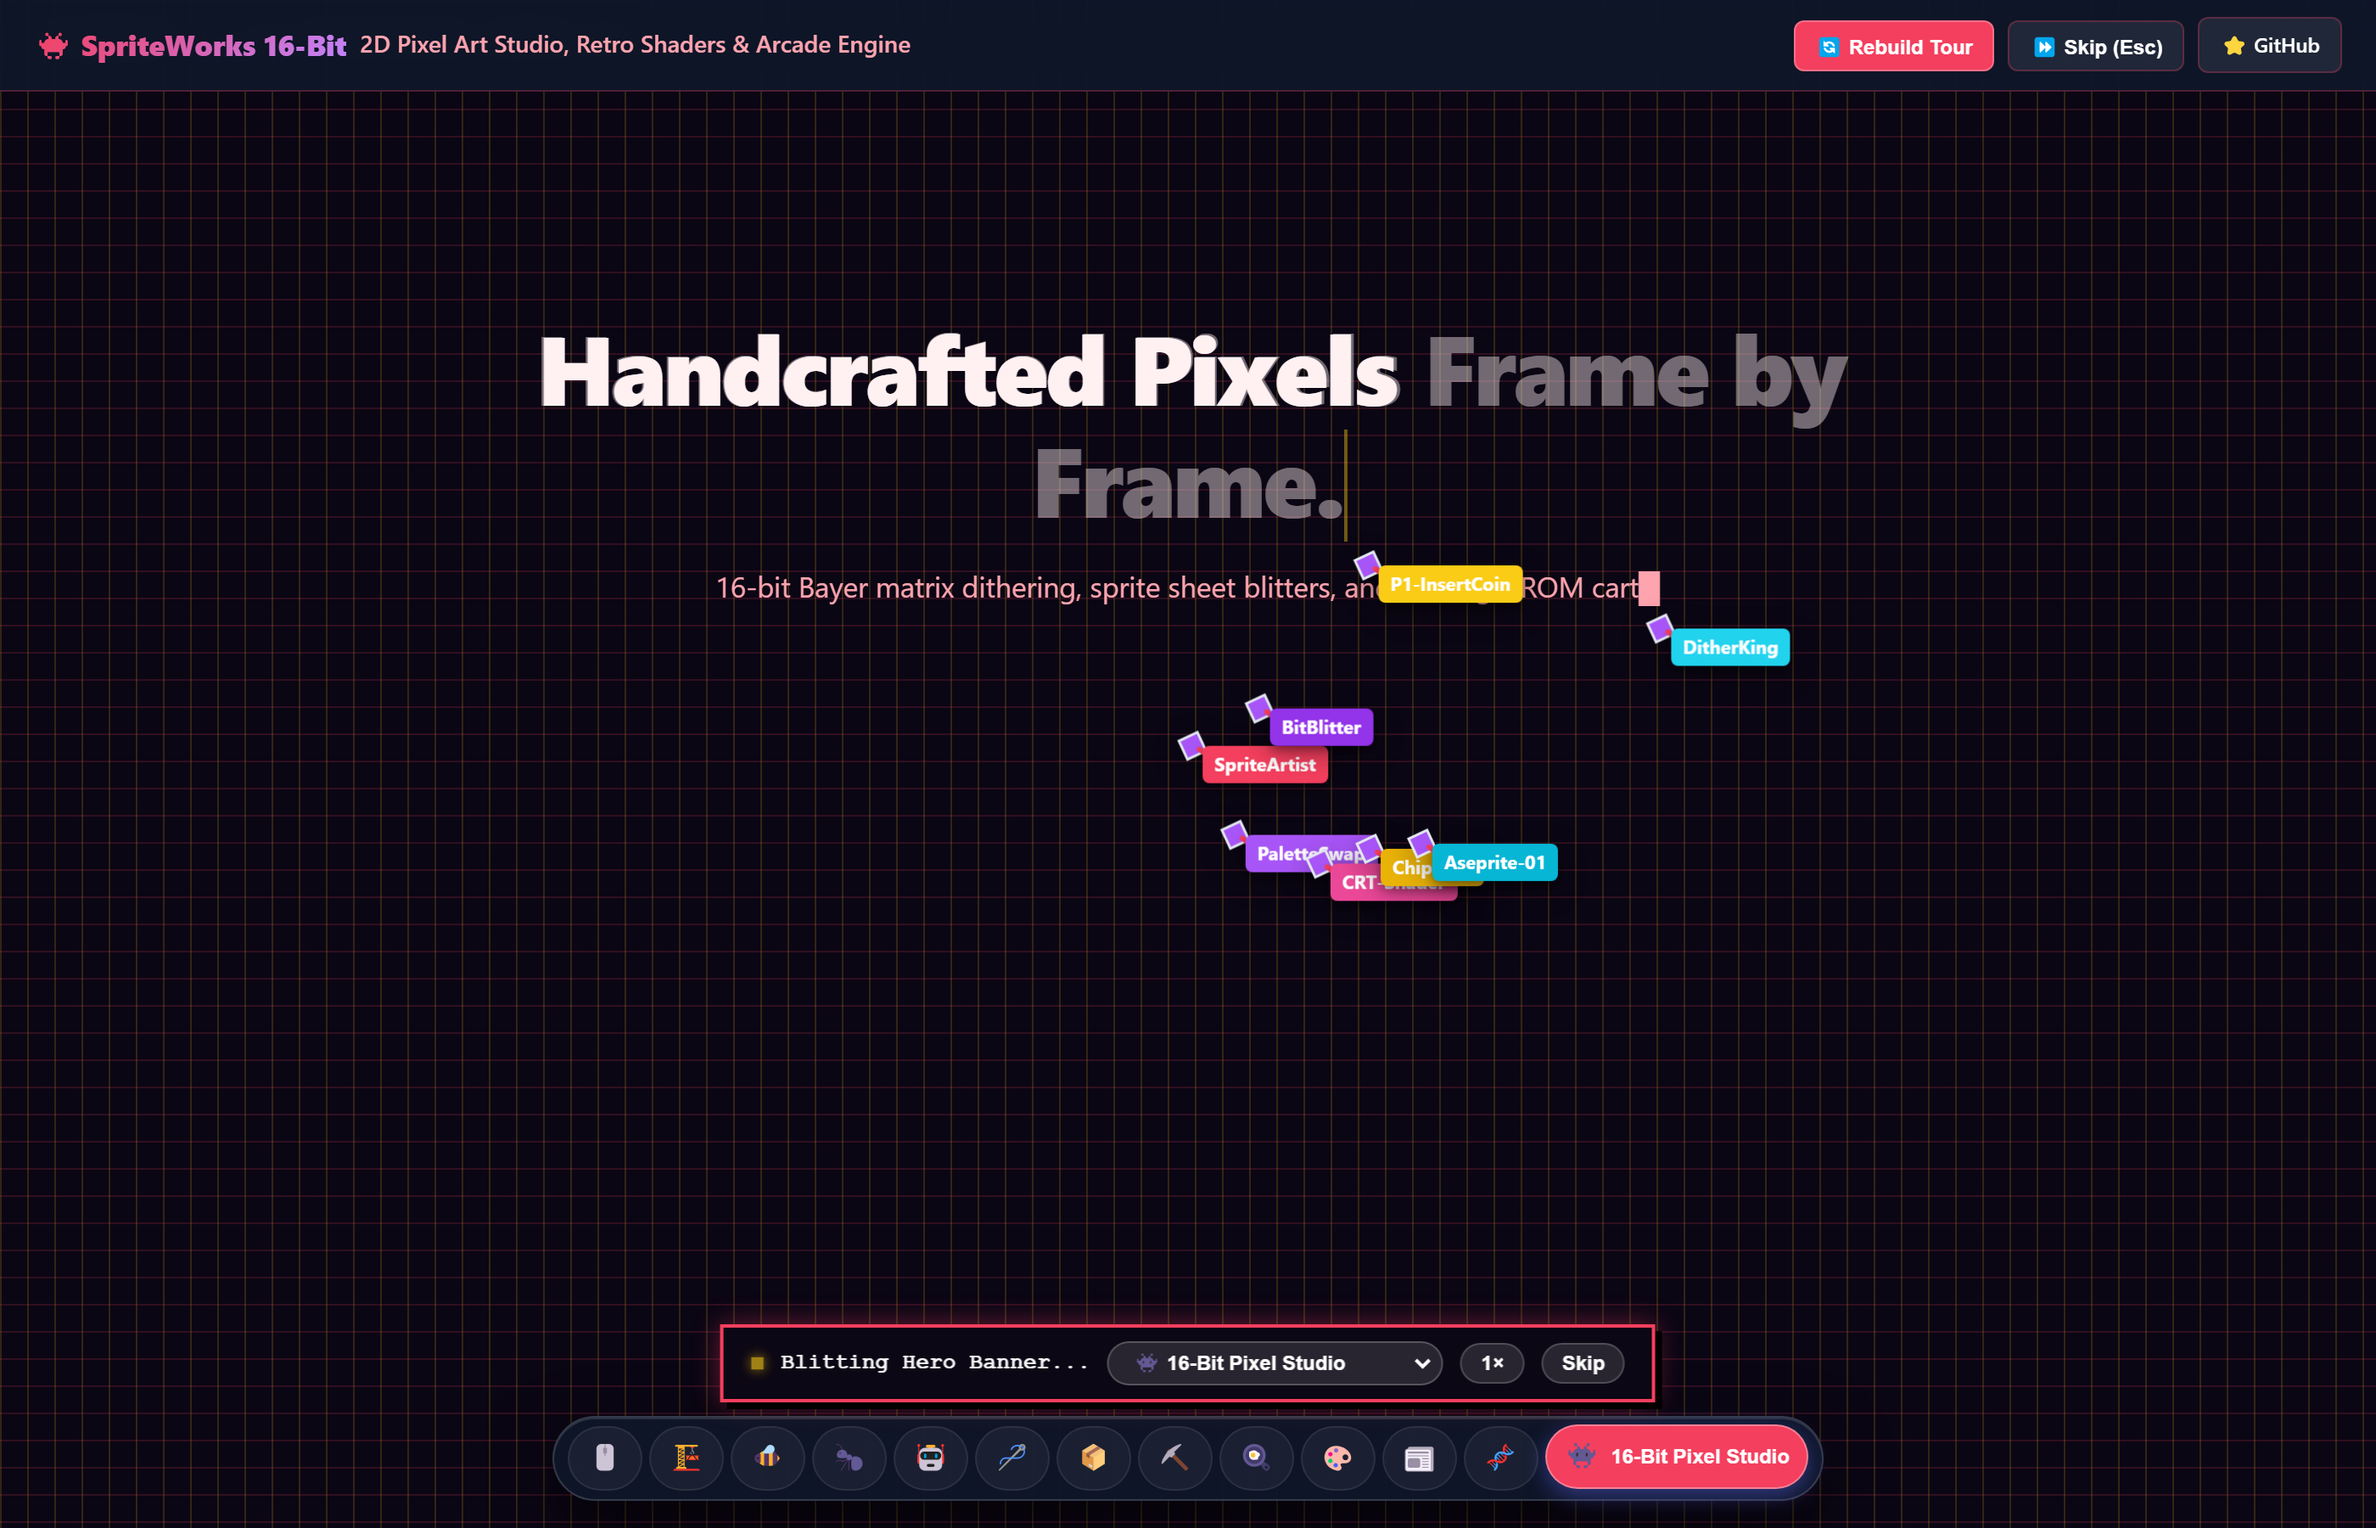
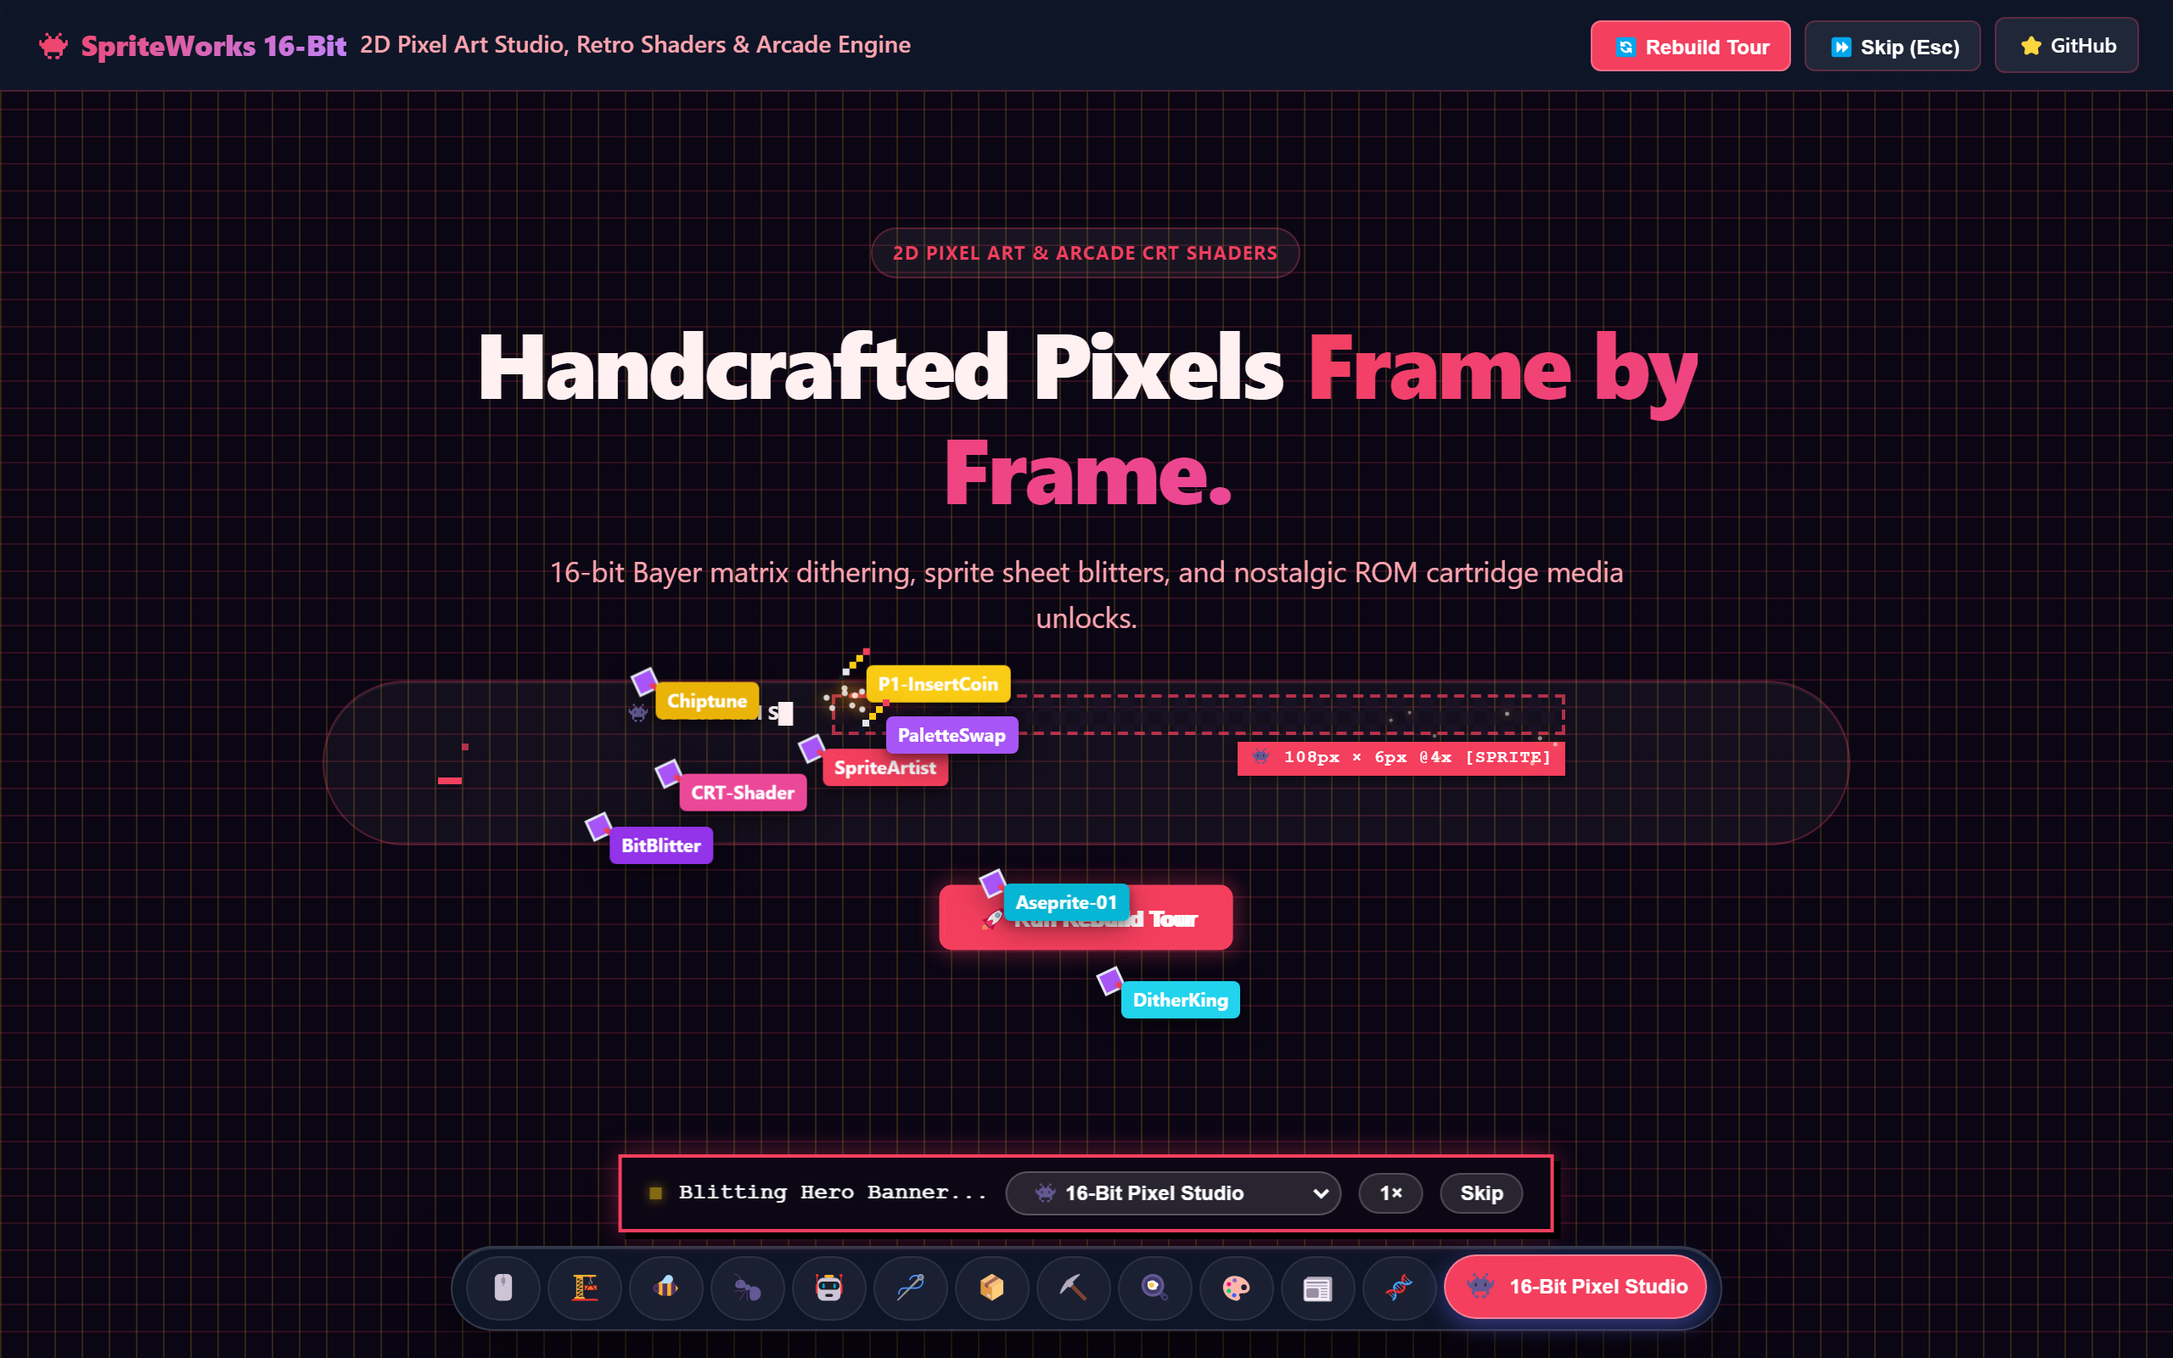
fix: define missing dragBoxScience and dragBoxPixel to resolve tour halt

Changed region(s): [[0.0, 0.0, 1.0, 1.0]]

diff --git a/assets/swarm.js b/assets/swarm.js
@@ -1287,7 +1287,65 @@
     a.setTool("");
   }
 
-  // 1.11 Default: Precision Wireframe Drag
+  // 1.11 Science: Expanding Molecular Double-Helix Lattice
+  async function dragBoxScience(r, a, t) {
+    const ghost = el("div", "swarm-ghost is-science-lattice", r.layer);
+    ghost.style.cssText = `left:${t.x}px;top:${t.y}px;width:0;height:0;--c:#10b981;`;
+    const grid = el("div", "swarm-science-grid", ghost);
+    const rungCount = Math.max(2, Math.min(6, Math.floor(t.w / 60)));
+    for (let i = 0; i < rungCount; i++) {
+      const rung = el("div", "swarm-dna-rung", grid);
+      rung.style.left = `${((i + 1) / (rungCount + 1)) * 100}%`;
+      rung.style.animationDelay = `${i * 0.15}s`;
+    }
+    const badge = el("span", "swarm-badge", ghost);
+    badge.style.background = "#10b981";
+    t.ghost = ghost;
+
+    a.setTool("pen");
+    await a.goto(t.x, t.y);
+
+    const dur = Math.min(300, 120 + (t.w + t.h) * 0.08);
+    await r.tween(dur, (p) => {
+      const w = t.w * p;
+      const h = t.h * p;
+      ghost.style.width = w + "px";
+      ghost.style.height = h + "px";
+      badge.textContent = r.theme.dimensionUnit(w, h);
+      a.place(t.x + w, t.y + h);
+      if (Math.random() < 0.25) emitParticles(r, a.x, a.y, "#06b6d4");
+    });
+    a.setTool("");
+  }
+
+  // 1.12 Pixel: 8x8 Alpha Checkerboard Canvas with Marching Ants Marquee
+  async function dragBoxPixel(r, a, t) {
+    const ghost = el("div", "swarm-ghost is-pixel-canvas", r.layer);
+    ghost.style.cssText = `left:${t.x}px;top:${t.y}px;width:0;height:0;--c:#f43f5e;`;
+    el("div", "swarm-pixel-checker", ghost);
+    const badge = el("span", "swarm-badge is-pixel-badge", ghost);
+    badge.style.background = "#f43f5e";
+    t.ghost = ghost;
+
+    a.setTool("pen");
+    await a.goto(t.x, t.y);
+
+    const dur = Math.min(300, 120 + (t.w + t.h) * 0.08);
+    await r.tween(dur, (p) => {
+      const rawW = t.w * p;
+      const rawH = t.h * p;
+      const w = Math.max(4, Math.round(rawW / 4) * 4);
+      const h = Math.max(4, Math.round(rawH / 4) * 4);
+      ghost.style.width = w + "px";
+      ghost.style.height = h + "px";
+      badge.textContent = r.theme.dimensionUnit(w, h);
+      a.place(t.x + w, t.y + h);
+      if (Math.random() < 0.25) emitParticles(r, a.x, a.y, "#facc15");
+    });
+    a.setTool("");
+  }
+
+  // 1.13 Default: Precision Wireframe Drag
   async function dragBoxDefault(r, a, t) {
     const ghost = el("div", "swarm-ghost is-wireframe", r.layer);
     ghost.style.cssText = `left:${t.x}px;top:${t.y}px;width:0;height:0;--c:${a.color}`;
@@ -1614,7 +1672,7 @@
     const { rect, len } = createSvgBorder(r, t, "pen-science", "#10b981");
     rect.style.strokeWidth = "2.5px";
     rect.style.filter = "drop-shadow(0 0 6px #10b981)";
-    a.setTool("pipette");
+    a.setTool("pen");
 
     const corners = [[t.x, t.y], [t.x + t.w, t.y], [t.x + t.w, t.y + t.h], [t.x, t.y + t.h], [t.x, t.y]];
     const per = 2 * (t.w + t.h);
@@ -1633,8 +1691,9 @@
   async function traceBorderPixel(r, a, t) {
     const { rect, len } = createSvgBorder(r, t, "pen-pixel", "#f43f5e");
     rect.style.strokeWidth = "3px";
-    rect.style.strokeDasharray = "4 4";
-    a.setTool("pencil");
+    rect.style.strokeLinecap = "square";
+    rect.style.filter = "drop-shadow(0 0 6px #f43f5e)";
+    a.setTool("pen");
 
     const corners = [[t.x, t.y], [t.x + t.w, t.y], [t.x + t.w, t.y + t.h], [t.x, t.y + t.h], [t.x, t.y]];
     const per = 2 * (t.w + t.h);
@@ -1698,6 +1757,10 @@
     } else if (themeId === "press-room") {
       g.classList.add("swarm-brayer-press");
       await r.wait(100);
+    } else if (themeId === "science") {
+      await r.wait(100);
+    } else if (themeId === "pixel") {
+      await r.wait(90);
     } else {
       await r.wait(80);
     }
@@ -1767,6 +1830,7 @@
         a.place(c.left + window.scrollX + 2, c.bottom + window.scrollY + oy);
       }
     });
+    span.textContent = t.text;
     a.setTool("");
   }
 
